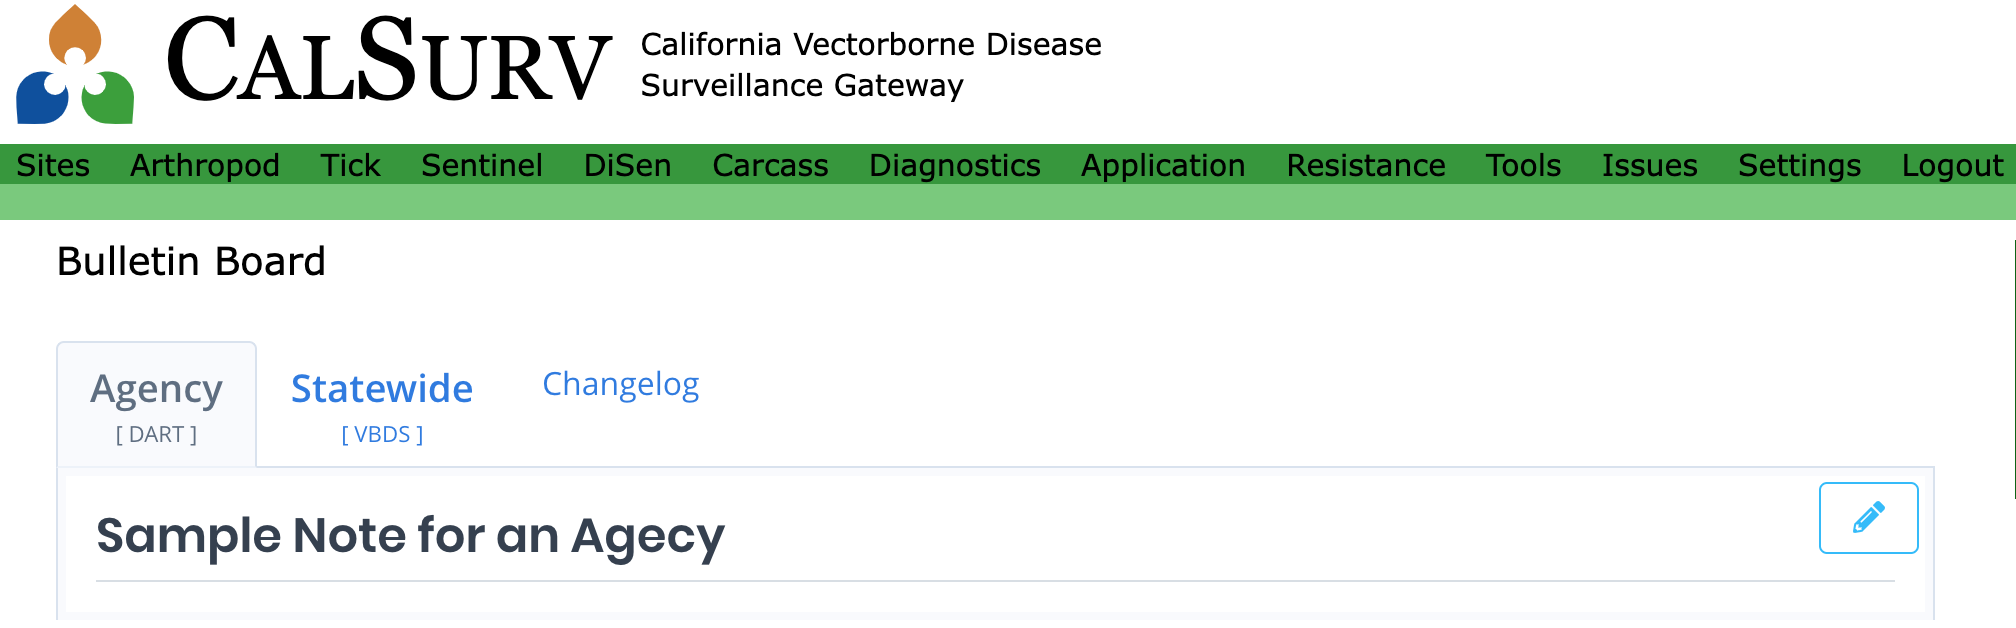
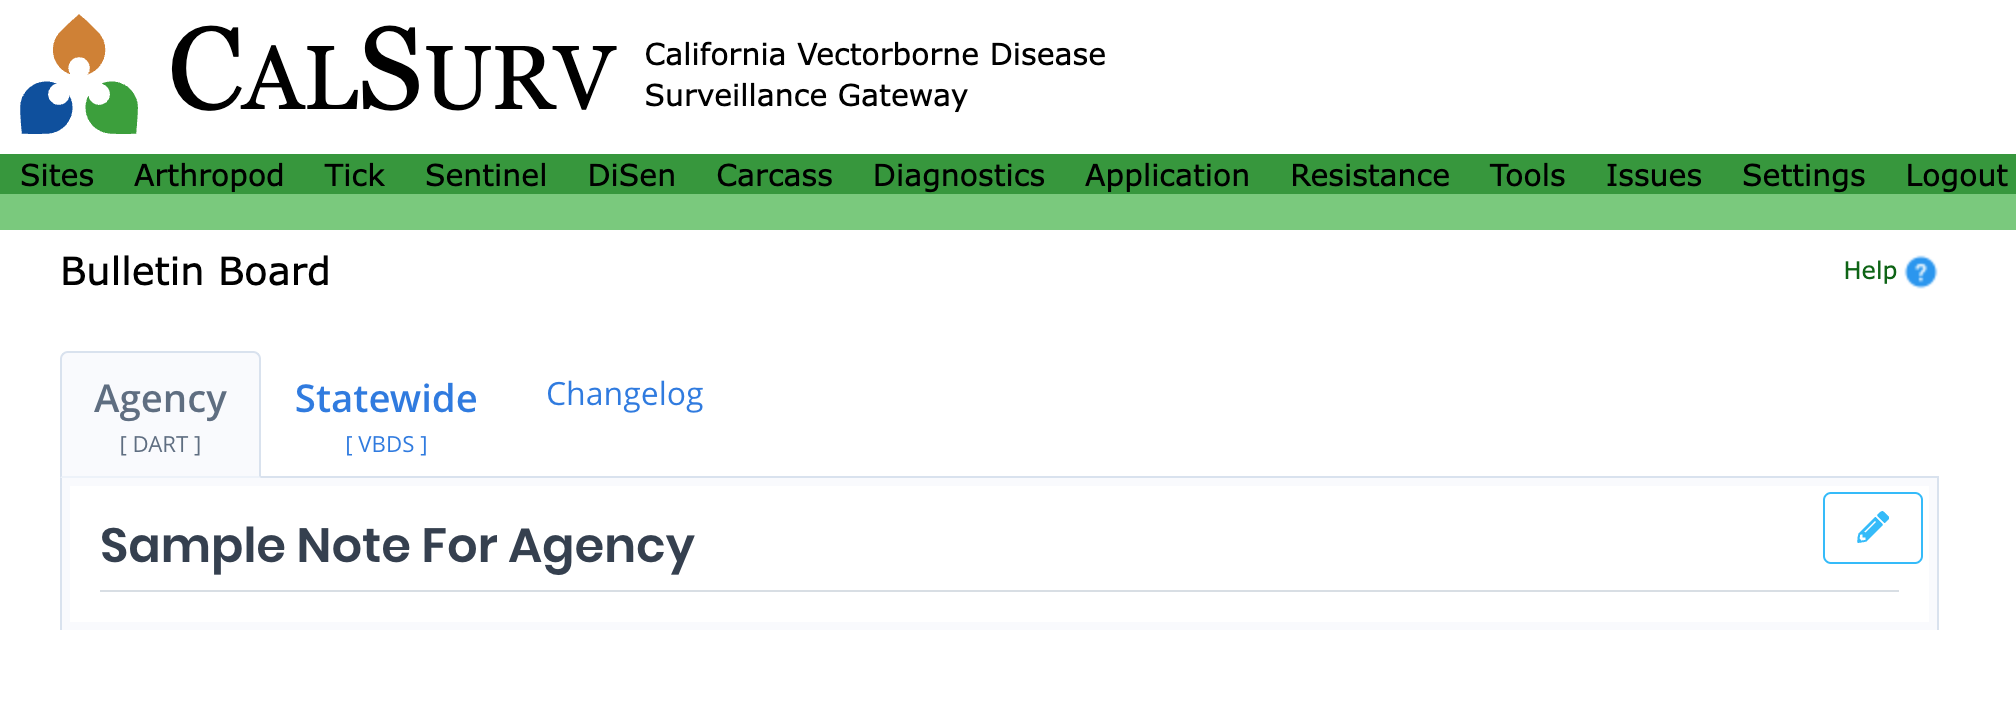
Update notes import (#3)
* fix spelling in photo

* update import documentation

* rm image. add links to docs

* delete image

diff --git a/_docs/tools/data-tools.md b/_docs/tools/data-tools.md
@@ -11,9 +11,19 @@ Import data only for your current agency. You can change agencies using the **Cu
 ![Current Agency Box]({{ site.baseurl }}/assets/images/docs/current-agency.PNG)
 
 - **Import Type**: What type of data are you importing? Only one selection is possible.
-- **File**: Choose the file to upload from your desktop. Note that the file must be one of Microsoft Excel (x.xls), OpenDocument Spreadsheet (x.ods), Comma Separated Values (x.csv), or HTML (x.html)
-  - Note that the file must follow the import rules outlined to the box on the side for the specific _Import Type_ being used in order for the import to be successful.
+- **File**: Choose the file to upload from your desktop. Note that the file must be one of Microsoft Excel (.xls or .xlsx) or Comma Separated Values (.csv).
+  - Note that the file must follow the import rules for the specific _Import Type_ being used in order for the import to be successful. Import specifications can be found by following the links below.
 
+> ### General Import Specifications
+>  - [Rules governing the structures and formats of the various import types.](https://gateway.vectorsurv.org/doc/ImportDataSpecification.xlsx)
+> ### Arthro Collections - Formatted Specifications
+> **Specifications and template files specific to the Arthro Collection - Formatted import type.**
+> - [Generic Sample](https://gateway.vectorsurv.org//doc/arthro_collection_formatted/generic/generic.zip)
+> - [California Sample](https://gateway.vectorsurv.org//doc/arthro_collection_formatted/CA/CA.zip)
+> ### Web Service Documentation
+> - [Instructions detailing the Import Web service and how to use the service from local applications.](https://trac.vectorsurv.org/gateway/wiki/ImportWebService)
+
+These links can also be found in the information panel at the bottom of the [Data Import page](https://gateway.vectorsurv.org/core/ppf/import).
 ## Export Data
 
 Select the **Export Type** to choose which data you wish to export. Export format preferences can be modified under _Documents_ on the [Account Preferences]({{ site.baseurl }}/docs/settings/account-preferences) page.
